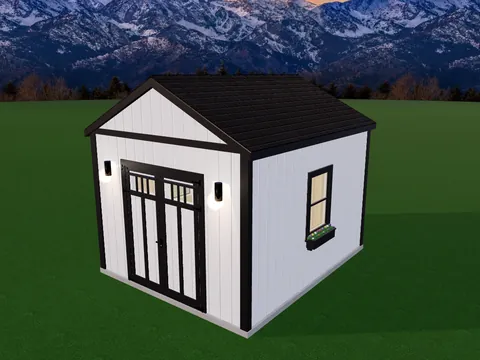
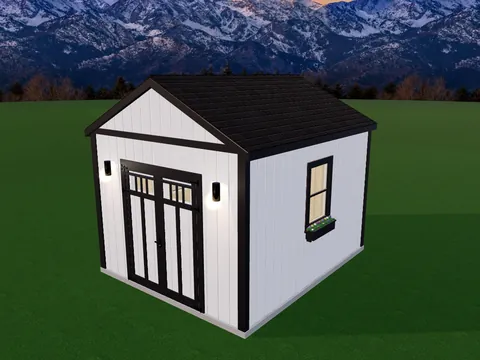
Modern Studio v3: 18in deep cedar front eave (new 1 1/2 ft front-overhang option on the Roof step, unpriced like the others), Essential (full) power-ready electrical, review sheet names the front eave; all five starters: every window head level with the door head (76in, 82.5in on Estate Porch), tran

diff --git a/designer.html b/designer.html
@@ -862,6 +862,7 @@ textarea.inp{resize:vertical}
           <div class="optrow" style="display:grid;grid-template-columns:1fr;gap:7px">
             <div class="pitch-btn leanto-fovh-btn on" data-fovh="match" onclick="setLeantoFrontOvh('match',this)">Same as overhang above</div>
             <div class="pitch-btn leanto-fovh-btn" data-fovh="12" onclick="setLeantoFrontOvh(12,this)">1 ft</div>
+            <div class="pitch-btn leanto-fovh-btn" data-fovh="18" onclick="setLeantoFrontOvh(18,this)">1&frac12; ft</div>
             <div class="pitch-btn leanto-fovh-btn" data-fovh="24" onclick="setLeantoFrontOvh(24,this)">2 ft</div>
           </div>
         </div>
@@ -1161,7 +1162,7 @@ var W=8, L=12, H=8, PITCH=6;
     // entry) eave can also stick out further than the general Overhang
     // control, independent of it — 'match' just reuses whatever that is.
     var LEANTO_DROP=1;          // feet the back wall sits below the front
-    var LEANTO_FRONT_OVH='match'; // 'match' | 12 | 24 (inches)
+    var LEANTO_FRONT_OVH='match'; // 'match' | 12 | 18 | 24 (inches)
     var SIDING="vertical";  // "vertical" | "horizontal" | "board-batten" | "pine"
     var PINE_DIR="vertical";  // 1x6 pine T&G can run either way
     var DOOR="basic";  // 5ft double door style: basic, craftsman, xtrim, arch, panel4
@@ -2906,7 +2907,7 @@ var STARTER_BUILDS = [
    sidingColor:0xF2F0EC, trimColor:0x1A1A1A, roofColor:0x28282A, roofType:'shingle', ovh:4, ovType:'all4', soffit:'black',
    foundation:'pad', elec:'core',
    doors:[{wall:'front',pos:0.5,style:'craftsman',w:60,h:76}],
-   windows:[{wall:'right',pos:0.5,w:24,h:36,type:'Black Vinyl 24x36'},{wall:'left',pos:0.5,w:24,h:36,type:'Black Vinyl 24x36'}],
+   windows:[{wall:'right',pos:0.5,w:24,h:36,cy:58,type:'Black Vinyl 24x36'},{wall:'left',pos:0.5,w:24,h:36,cy:58,type:'Black Vinyl 24x36'}],
    porchLights:[{wall:'front',pos:0.17,style:'modern'},{wall:'front',pos:0.83,style:'modern'}],
    addons:{flowerboxes:true, fbColor:'black'}}},
  {k:'signature-gable', name:'Signature Gable', sub:'12×16 Gable / A-Frame · Cupola, shutters & power', badge:'Popular',
@@ -2915,7 +2916,7 @@ var STARTER_BUILDS = [
    sidingColor:0x3C3F43, trimColor:0xF2F0EC, roofColor:0x28282A, roofType:'shingle', ovh:4, ovType:'all4', soffit:'white',
    foundation:'pad', elec:'core',
    doors:[{wall:'front',pos:0.5,style:'craftsman',w:72,h:76}],
-   windows:[{wall:'right',pos:0.3,w:24,h:30,type:'White Vinyl 24x30'},{wall:'right',pos:0.7,w:24,h:30,type:'White Vinyl 24x30'},{wall:'left',pos:0.5,w:24,h:30,type:'White Vinyl 24x30'}],
+   windows:[{wall:'right',pos:0.3,w:24,h:30,cy:61,type:'White Vinyl 24x30'},{wall:'right',pos:0.7,w:24,h:30,cy:61,type:'White Vinyl 24x30'},{wall:'left',pos:0.5,w:24,h:30,cy:61,type:'White Vinyl 24x30'}],
    porchLights:[{wall:'front',pos:0.18,style:'modern'},{wall:'front',pos:0.82,style:'modern'}],
    addons:{shutters:true, shutterColor:'white', flowerboxes:true, fbColor:'white', cupola:'black', ridgeVent:true}}},
  {k:'estate-porch', name:'Estate Porch Gable', sub:'16×24 Gable / A-Frame · Covered front porch, 9 ft walls', badge:'Luxury', tier:'luxury',
@@ -2925,8 +2926,8 @@ var STARTER_BUILDS = [
    porchLoc:'front', porchDepth:6, porchDeck:'composite', deckColor:'brown', porchTier:'standard',
    foundation:'pad', elec:'core',
    doors:[{wall:'front',pos:0.5,style:'resfull',w:36,h:82.5}],
-   windows:[{wall:'front',pos:0.17,w:36,h:36,type:'White Vinyl 36x36'},{wall:'front',pos:0.83,w:36,h:36,type:'White Vinyl 36x36'},
-            {wall:'right',pos:0.5,w:36,h:36,type:'White Vinyl 36x36'},{wall:'left',pos:0.5,w:36,h:36,type:'White Vinyl 36x36'}],
+   windows:[{wall:'front',pos:0.17,w:36,h:36,cy:64.5,type:'White Vinyl 36x36'},{wall:'front',pos:0.83,w:36,h:36,cy:64.5,type:'White Vinyl 36x36'},
+            {wall:'right',pos:0.5,w:36,h:36,cy:64.5,type:'White Vinyl 36x36'},{wall:'left',pos:0.5,w:36,h:36,cy:64.5,type:'White Vinyl 36x36'}],
    porchLights:[{wall:'front',pos:0.38,style:'modern'},{wall:'front',pos:0.62,style:'modern'}],
    addons:{flowerboxes:true, fbColor:'white', ridgeVent:true}}},
  {k:'heritage-barn', name:'Heritage Barn', sub:'10×20 · Copper cupola & power', badge:'Most space',
@@ -2935,14 +2936,22 @@ var STARTER_BUILDS = [
    sidingColor:0x7C8A6E, trimColor:0xF2F0EC, roofColor:0x28282A, roofType:'shingle',
    foundation:'pad', elec:'core',
    doors:[{wall:'front',pos:0.5,style:'xtrim',w:72,h:76}],
-   windows:[{wall:'right',pos:0.3,w:24,h:30,type:'White Vinyl 24x30'},{wall:'right',pos:0.7,w:24,h:30,type:'White Vinyl 24x30'}],
+   windows:[{wall:'right',pos:0.3,w:24,h:30,cy:61,type:'White Vinyl 24x30'},{wall:'right',pos:0.7,w:24,h:30,cy:61,type:'White Vinyl 24x30'}],
    porchLights:[{wall:'front',pos:0.12,style:'modern'},{wall:'front',pos:0.88,style:'modern'}],
    addons:{flowerboxes:true, fbColor:'white', cupola:'copper'}}},
- {k:'modern-studio', name:'Modern Studio', sub:'16×12 Lean-To · Cedar doors, big vertical window & 2 porch lights', badge:'Modern',
+ {k:'modern-studio', name:'Modern Studio', sub:'16×12 Lean-To · Deep eave, full power-ready electrical, 2 porch lights', badge:'Modern',
   img:'designer-starters/modern-studio.webp',
   cfg:{style:'leanto', w:16, l:12, h:9, siding:'horizontal',
    sidingColor:0x3C3F43, trimColor:0x1A1A1A, roofColor:0x1A1A1A, roofType:'metal', ovh:6, ovType:'all4', soffit:'cedar',
-   foundation:'pad', elec:'core',
+   /* Deep modern front eave: 18in at the front (the 6in all-round overhang
+      plus a foot), cedar soffit underneath. Starter-only; any lean-to can pick
+      it on the Roof step (Front overhang: 1 1/2 ft). */
+   leantoFrontOvh:18,
+   /* Essential = the most complete package: (4) 6" lights, porch light,
+      exterior soffit lights, multiple switch locations, (6) outlets, GFCI,
+      120V power inlet. Power-ready; a licensed electrician makes the final
+      hookup. */
+   foundation:'pad', elec:'essential',
    doors:[{wall:'front',pos:0.279,style:'cedar',w:60,h:76}],
    /* Front: the 16ft side (192in) faces you, the roof slopes back over the
       12ft depth - same 192 sqft as a 12x16. On the 12ft side there was no
@@ -2955,8 +2964,8 @@ var STARTER_BUILDS = [
       left to the auto-placer: one each side of the door, the same 8in of
       siding from each casing, centred ~6ft up (the door's upper third). */
    windows:[{wall:'front',pos:0.852,w:24,h:36,cy:58,type:'Black Vinyl 24x36'},
-            {wall:'right',pos:0.5,w:36,h:36,type:'Black Vinyl 36x36'},
-            {wall:'left',pos:0.3,w:14,h:36,type:'Black Transom 14x36'},{wall:'left',pos:0.7,w:14,h:36,type:'Black Transom 14x36'}],
+            {wall:'right',pos:0.5,w:36,h:36,cy:58,type:'Black Vinyl 36x36'},
+            {wall:'left',pos:0.3,w:14,h:36,cy:58,type:'Black Transom 14x36'},{wall:'left',pos:0.7,w:14,h:36,cy:58,type:'Black Transom 14x36'}],
    porchLights:[{wall:'front',pos:0.1,style:'modern'},{wall:'front',pos:0.6,style:'modern'}],
    addons:{}}}
 ];
@@ -17201,7 +17210,7 @@ function consultNudgeInit(sharedDesign){
     <h2>How it works</h2>
     <ol class="dinfo-steps"><li>Start from a ShedPro favorite or pick a style.</li><li>Pick your size: width, length and wall height.</li><li>Choose your foundation.</li><li>Pick siding and colors.</li><li>Choose your roof.</li><li>Add doors, then windows and vents.</li><li>Plan the interior, power-ready electrical and add-ons.</li><li>Review your design and request your free quote.</li></ol>
     <h2>ShedPro favorites: 5 starter builds</h2>
-    <ul><li><strong>Classic Gable</strong> (10×12): Gable / A-frame with power, porch lights and a concrete pad</li><li><strong>Signature Gable</strong> (12×16): Gable / A-frame with a cupola, shutters and power</li><li><strong>Estate Porch Gable</strong> (16×24): Gable / A-frame with a covered front porch and 9 ft walls</li><li><strong>Heritage Barn</strong> (10×20): Barn (gambrel) roof with a copper cupola and power</li><li><strong>Modern Studio</strong> (12×16): Lean-to (single slope) with cedar doors, a metal roof and power</li></ul>
+    <ul><li><strong>Classic Gable</strong> (10×12): Gable / A-frame with power, porch lights and a concrete pad</li><li><strong>Signature Gable</strong> (12×16): Gable / A-frame with a cupola, shutters and power</li><li><strong>Estate Porch Gable</strong> (16×24): Gable / A-frame with a covered front porch and 9 ft walls</li><li><strong>Heritage Barn</strong> (10×20): Barn (gambrel) roof with a copper cupola and power</li><li><strong>Modern Studio</strong> (16×12): Lean-to (single slope) with a deep front eave, cedar doors, a metal roof and full power-ready electrical</li></ul>
     <h2>Shed styles</h2>
     <ul><li><strong>Gable / A-Frame</strong>: our most popular style: a classic peaked roof, with the option of a covered front or side porch (cabin style)</li><li><strong>Barn</strong>: a gambrel roof for maximum loft space</li><li><strong>Lean-To</strong>: a modern single-slope roof</li><li><strong>Poolhouse</strong>: a hip roof that slopes on all four sides</li><li><strong>3 Peak</strong>: a gable with one cross gable</li><li><strong>4 Peak</strong>: a gable with cross gables on both sides</li></ul>
     <p>Searching for an A-frame shed? It's the same build as our gable shed: same peaked roof, same pricing, same options.</p>

diff --git a/index.html b/index.html
@@ -678,7 +678,7 @@ footer{background:#070809;border-top:1px solid var(--border);padding:64px 0 32px
         <div class="frames" id="studioFrames">
 <img class="on" src="studio-preview-1.webp" srcset="studio-preview-1-960.webp 960w, studio-preview-1.webp 1440w" sizes="(min-width:900px) 48vw, 94vw" width="1440" height="900" alt="ShedPro Studio 3D designer showing the Classic Gable starter build: a white 10x12 Gable / A-Frame shed with black trim, double doors and two porch lights, with the ShedPro favorites panel open" decoding="async" data-label="Gable / A-Frame">
 <img src="studio-preview-2.webp" srcset="studio-preview-2-960.webp 960w, studio-preview-2.webp 1440w" sizes="(min-width:900px) 48vw, 94vw" width="1440" height="900" alt="ShedPro Studio 3D designer showing the Heritage Barn starter build: a sage green 10x20 barn shed with white trim, X-brace doors and a copper cupola" loading="lazy" decoding="async" data-label="Barn">
-<img src="studio-preview-3.webp" srcset="studio-preview-3-960.webp 960w, studio-preview-3.webp 1440w" sizes="(min-width:900px) 48vw, 94vw" width="1440" height="900" alt="ShedPro Studio 3D designer showing the Modern Studio starter build: a charcoal 16x12 lean-to with cedar double doors, a porch light on each side of the doors and one large vertical window" loading="lazy" decoding="async" data-label="Lean-To">
+<img src="studio-preview-3.webp" srcset="studio-preview-3-960.webp 960w, studio-preview-3.webp 1440w" sizes="(min-width:900px) 48vw, 94vw" width="1440" height="900" alt="ShedPro Studio 3D designer showing the Modern Studio starter build: a charcoal 16x12 lean-to with a deep cedar front eave, cedar double doors, a porch light on each side of the doors and one large vertical window" loading="lazy" decoding="async" data-label="Lean-To">
 <img src="studio-preview-4.webp" srcset="studio-preview-4-960.webp 960w, studio-preview-4.webp 1440w" sizes="(min-width:900px) 48vw, 94vw" width="1440" height="900" alt="ShedPro Studio 3D designer showing the Estate Porch Gable starter build: a navy 16x24 Gable / A-Frame shed with a covered front porch and white trim" loading="lazy" decoding="async" data-label="Gable / A-Frame porch">
           <span class="frame-label" id="frameLabel" aria-hidden="true">Gable / A-Frame</span>
         </div>

diff --git a/designer-upgrade.js b/designer-upgrade.js
@@ -136,6 +136,7 @@ DU.specRows = function(){
   var roof=(S.ROOFTYPE==='metal'?'Metal':'Shingle')+' · '+(S.rn||'');
   if(S.STYLE!=='barn' && S.STYLE!=='leanto' && S.PITCH) roof+=' · '+S.PITCH+'/12 pitch';
   if(S.OVH) roof+=' · '+S.OVH+'" overhang';
+  if(S.STYLE==='leanto' && S.LEANTO_FRONT_OVH!=null && S.LEANTO_FRONT_OVH!=='match') roof+=' · '+S.LEANTO_FRONT_OVH+'" front eave';
   rows.push(['Roof', roof, 'Roof']);
   rows.push(['Doors', (S.doorsData||[]).length ? countBy(S.doorsData, doorName).join(', ') : 'None', 'Doors']);
   rows.push(['Windows', (S.windowsData||[]).length ? countBy(S.windowsData, function(w){ return w.type||(w.w+'×'+w.h); }).join(', ') : 'None', 'Windows & Vents']);
